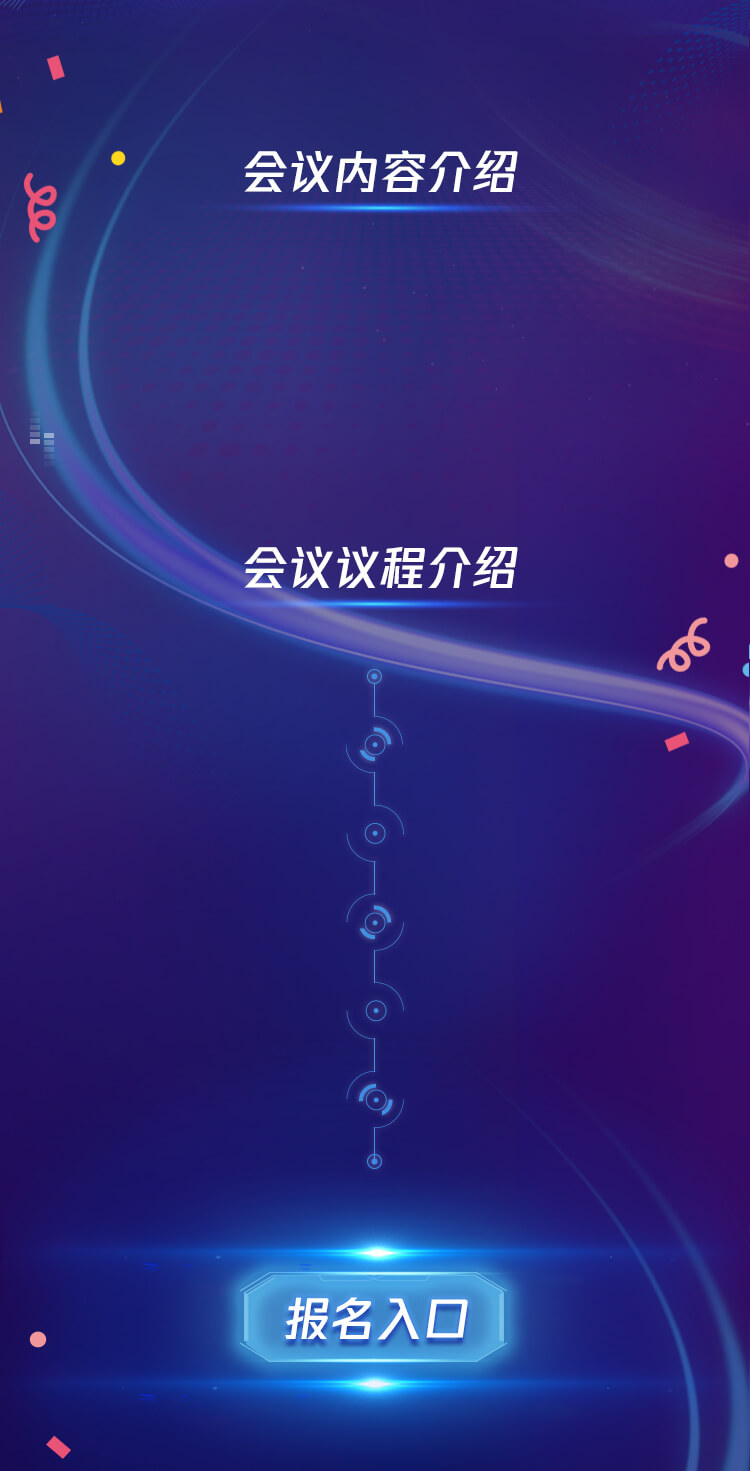
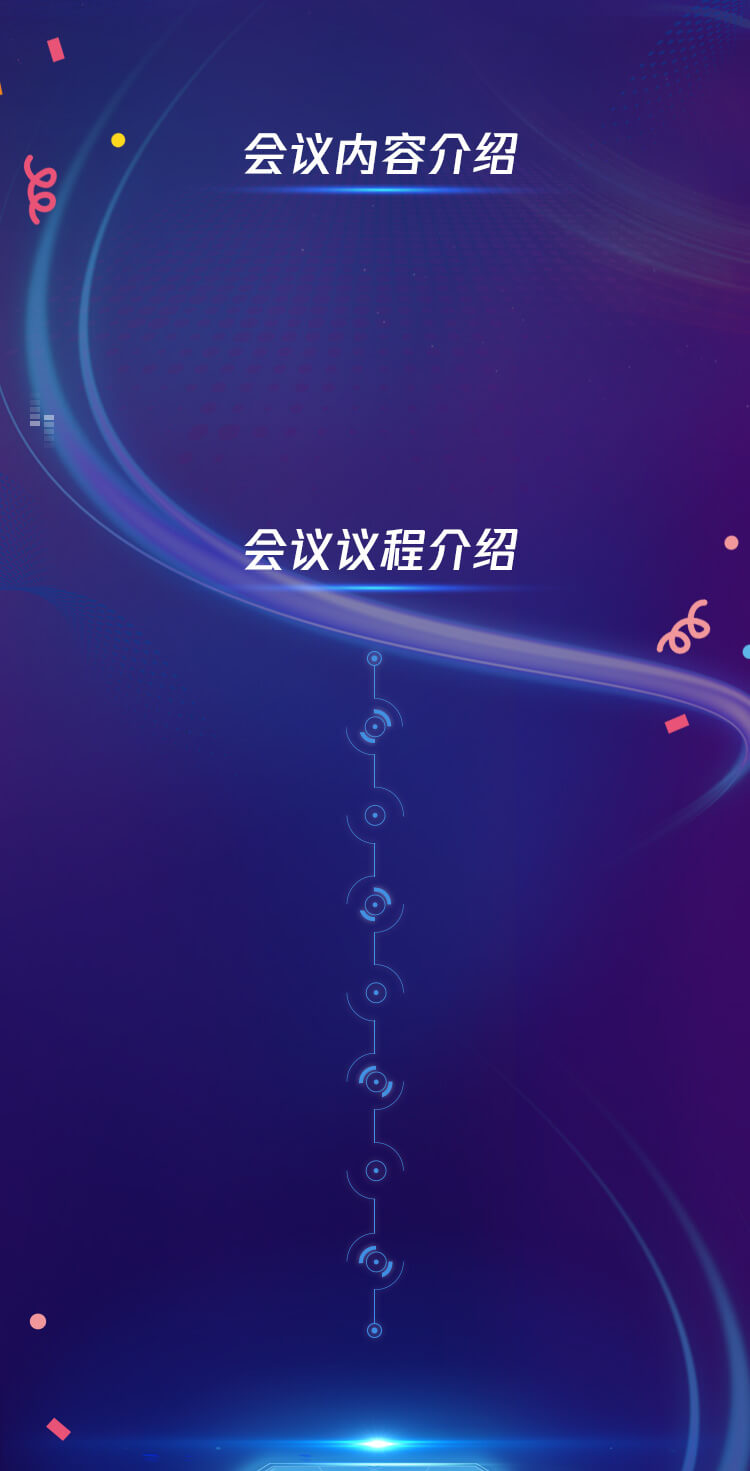
H5Web

diff --git a/H5web/tencent20180316/js/main.js b/H5web/tencent20180316/js/main.js
@@ -143,18 +143,18 @@ jQuery(function($){
     ];
 
     var timeData = [
-        {'id': '1001', 'value' : "2018-03-27 13:45", 'parentId' : '100'},
-        {'id': '1002', 'value' : "2018-03-28 13:45", 'parentId' : '101'},
-        {'id': '1003', 'value' : "2018-03-29 13:45", 'parentId' : '102'},
-        {'id': '1004', 'value' : "2018-04-02 13:45", 'parentId' : '103'},
-        {'id': '1005', 'value' : "2018-04-03 13:45", 'parentId' : '104'},
-        {'id': '1006', 'value' : "2018-04-09 13:45", 'parentId' : '105'},
-        {'id': '1007', 'value' : "2018-04-10 13:45", 'parentId' : '106'},
-        {'id': '1008', 'value' : "2018-04-11 13:45", 'parentId' : '107'},
-        {'id': '1009', 'value' : "2018-04-12 13:45", 'parentId' : '108'},
-        {'id': '1010', 'value' : "2018-04-17 13:45", 'parentId' : '109'},
-        {'id': '1011', 'value' : "2018-04-18 13:45", 'parentId' : '110'},
-        {'id': '1012', 'value' : "2018-04-19 13:45", 'parentId' : '111'},
+        {'id': '1001', 'value' : "2018-03-27 14:30", 'parentId' : '100'},
+        {'id': '1002', 'value' : "2018-03-28 14:30", 'parentId' : '101'},
+        {'id': '1003', 'value' : "2018-03-29 14:30", 'parentId' : '102'},
+        {'id': '1004', 'value' : "2018-04-02 14:30", 'parentId' : '103'},
+        {'id': '1005', 'value' : "2018-04-03 14:30", 'parentId' : '104'},
+        {'id': '1006', 'value' : "2018-04-09 14:30", 'parentId' : '105'},
+        {'id': '1007', 'value' : "2018-04-10 14:30", 'parentId' : '106'},
+        {'id': '1008', 'value' : "2018-04-11 14:30", 'parentId' : '107'},
+        {'id': '1009', 'value' : "2018-04-12 14:30", 'parentId' : '108'},
+        {'id': '1010', 'value' : "2018-04-17 14:30", 'parentId' : '109'},
+        {'id': '1011', 'value' : "2018-04-18 14:30", 'parentId' : '110'},
+        {'id': '1012', 'value' : "2018-04-19 14:30", 'parentId' : '111'},
     ];
 
     var address = {
@@ -168,7 +168,7 @@ jQuery(function($){
         "107" : "西安市雁塔区慈恩路66号【西安威斯汀大酒店B2层朱雀厅】",
         "108" : "合肥市庐阳区濉溪西路256号【合肥香格里拉酒店2楼泸沽厅】",
         "109" : "武汉市武昌区临江大道96号 【武汉万达威斯汀酒店3楼长江厅】",
-        "110" : "沈阳市和平区南京南街66号【胡桃里音乐酒馆(沈阳店)】",
+        "110" : "沈阳市沈河区青年大街115号（沈阳香格里拉大酒店二楼兰花厅2）",
         "111" : "南昌市青山湖区湖滨南路62号【游离卡布咖啡】"
     };
 

diff --git a/H5web/tencent20180316/css/main.css b/H5web/tencent20180316/css/main.css
@@ -398,14 +398,14 @@ img{
     position: relative;
     height: auto;
     margin: 0 auto;
-    margin-top: 2.03rem;
+    margin-top: 1.88rem;
     width: 5rem;
 }
 
 .pg-1{
     position: absolute;
     height: auto;
-    width: 1.958rem;
+    width: 1.942rem;
     top: 0.16rem;
     left: 0.3rem;
 }
@@ -413,15 +413,15 @@ img{
 .pg-2{
     position: absolute;
     height: auto;
-    width: 1.775rem;
+    width: 1.975rem;
     top: 0.9rem;
-    right: 0.3rem;
+    right: 0.1rem;
 }
 
 .pg-3{
     position: absolute;
     height: auto;
-    width: 1.958rem;
+    width: 1.942rem;
     top: 1.64rem;
     left: 0.28rem;
 }
@@ -429,16 +429,32 @@ img{
 .pg-4{
     position: absolute;
     height: auto;
-    width: 1.775rem;
+    width: 1.975rem;
     top: 2.38rem;
-    right: 0.33rem;
+    right: 0.1rem;
 }
 
 .pg-5{
     position: absolute;
     height: auto;
-    width: 1.617rem;
+    width: 1.942rem;
     top: 3.12rem;
+    left: 0.3rem;
+}
+
+.pg-6{
+    position: absolute;
+    height: auto;
+    width: 1.975rem;
+    top: 3.86rem;
+    right: 0.1rem;
+}
+
+.pg-7{
+    position: absolute;
+    height: auto;
+    width: 1.942rem;
+    top: 4.62rem;
     left: 0.27rem;
 }
 
@@ -470,6 +486,18 @@ img{
     opacity: 0;
     -webkit-transition: opacity 0.6s linear 1.8s;
     transition: opacity 0.6s linear 1.8s;
+}
+
+.pg-6 .huiyi-img{
+    opacity: 0;
+    -webkit-transition: opacity 0.6s linear 2s;
+    transition: opacity 0.6s linear 2s;
+}
+
+.pg-7 .huiyi-img{
+    opacity: 0;
+    -webkit-transition: opacity 0.6s linear 2.2s;
+    transition: opacity 0.6s linear 2.2s;
 }
 
 .huiyi-active .huiyi-img{
@@ -508,9 +536,15 @@ img{
 }
 
 .pg-5 .pg-line{
-    right: -0.34rem;
+    right: 0rem;
     -webkit-transition:width 0.8s linear 0.5s;
     transition:width 0.8s linear 0.5s;
+}
+
+.pg-7 .pg-line{
+    right: 0rem;
+    -webkit-transition:width 0.8s linear 0.7s;
+    transition:width 0.8s linear 0.7s;
 }
 
 .pg-2 .pg-line{
@@ -525,10 +559,16 @@ img{
     transition:width 0.8s linear 0.4s;
 }
 
+.pg-6 .pg-line{
+    left: -0.2rem;
+    -webkit-transition:width 0.8s linear 0.6s;
+    transition:width 0.8s linear 0.6s;
+}
+
 .content-contact{
     position: relative;
     height: auto;
-    margin-top: 10.654rem;
+    margin-top: 12.28rem;
 }
 
 .wechat{
@@ -589,7 +629,7 @@ img{
 .enroll-btn-wrapper{
     position: absolute;
     left: 50%;
-    top: 5rem;
+    top: 6.7rem;
     width: 5rem;
     margin-left: -2.5rem;
 }

diff --git a/H5web/tencent20180316/index.html b/H5web/tencent20180316/index.html
@@ -9,7 +9,7 @@
 <link href="css/animate.min.css?ver=2.0" type="text/css" rel="stylesheet">
 <link rel="stylesheet" type="text/css" href="css/iosSelect.css">
 <link rel="stylesheet" type="text/css" href="css/wantUI-alert.css?ver=1.01">
-<link href="css/main.css?ver=1.013" type="text/css" rel="stylesheet">
+<link href="css/main.css?ver=1.014" type="text/css" rel="stylesheet">
 <script type="text/javascript">
 var _hmt = _hmt || [];
 (function() {
@@ -151,6 +151,18 @@ var _hmt = _hmt || [];
                             <img src="images/line.jpg">
                         </div>
                     </div>
+                    <div class="pg-6" data-scrollIn="yes" data-ani="huiyi-active" data-way="addClass">
+                        <img src="" data-src="images/huiyi6.png" class="huiyi-img">
+                        <div class="pg-line">
+                            <img src="images/line.jpg">
+                        </div>
+                    </div>
+                    <div class="pg-7" data-scrollIn="yes" data-ani="huiyi-active" data-way="addClass">
+                        <img src="" data-src="images/huiyi7.png" class="huiyi-img">
+                        <div class="pg-line">
+                            <img src="images/line.jpg">
+                        </div>
+                    </div>
                     <div class="enroll-btn-wrapper ebw1">
                         <div class="wave-box wlb">
                             <div class="wave">
@@ -237,6 +249,6 @@ var _hmt = _hmt || [];
 <script type="text/javascript" src="js/share.js?ver=1.03"></script>
 <script type="text/javascript" src="js/iosSelect.js?ver=1.01"></script>
 <script type="text/javascript" src="js/wantUI-alert.js?ver=1.01"></script>
-<script type="text/javascript" src="js/main.js?ver=1.24"></script>
+<script type="text/javascript" src="js/main.js?ver=1.26"></script>
 </body>
 </html>
